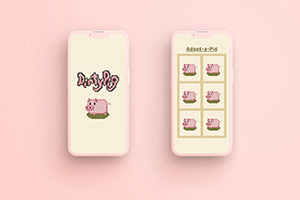
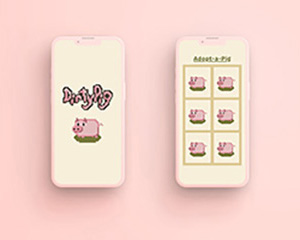
styled projects card section; updated on main projects page

diff --git a/projects.html b/projects.html
@@ -27,29 +27,29 @@
     <main id="main">
         <h2>Projects</h2>
         <p>Here are some of my recent projects. Click on the links below to view more details about each project.</p>
-        <section id="projects-large-grid">
-                <article id="project-1">
+        <section id="projects-carousel">
+                <article class="card">
+                    <img src="images/project-1.jpg" alt="Project 1: Displays an image of an iPhone that has pixel art icons of pigs that represent chores." width="300" height="240">
                     <h3>DirtyPig</h3>
                     <p>Mobile app that assits in daily task management.</p>
-                    <img src="images/project-1.jpg" alt="Project 1: Displays an image of an iPhone that has pixel art icons of pigs that represent chores." width="300" height="200">
                     <a href="project-1.html">View Project</a>
                 </article>
-                <article id="project-2">
+                <article class="card">
+                    <img src="images/project-2.jpg" alt="Project 2: A page of a brand manual for the brand redeisgn of Mount Adanac, a ski hill in Sudbury, Ontario." width="300" height="240">
                     <h3>Mount Adanac</h3>
                     <p>Rebrand of local ski hill in Sudbury, Ontario.</p>
-                    <img src="images/project-2.jpg" alt="Project 2: A page of a brand manual for the brand redeisgn of Mount Adanac, a ski hill in Sudbury, Ontario." width="300" height="240">
                     <a href="project-2.html">View Project</a>
                 </article>
-                <article id="project-3">
+                <article class="card">
+                    <img src="images/project-3.png" alt="Project 3: A screencap from a social awareness campaign about the destigmatization of periods. The image reads 'Doggy Style over Periods?'" width="431" height="240">
                     <h3>let's talk.</h3>
                     <p>Social awareness campaign about the destigmatization of periods.</p>
-                    <img src="images/project-3.png" alt="Project 3: A screencap from a social awareness campaign about the destigmatization of periods. The image reads 'Doggy Style over Periods?'" width="300" height="167">
                     <a href="project-3.html">View Project</a>
                 </article>
-                <article id="project-4">
+                <article class="card">
+                    <img src="images/project-4.jpg" alt="Project 4: An image of a body wash bottle from the brand 'Native.' The bottle is surrounded by cucumbers and mint leaves, and is floating in water. It is a part of an advertisement campaign for Native." width="300" height="240">
                     <h3>Pure Freshness</h3>
                     <p>Advertisement campaign for the brand 'Native.'</p>
-                    <img src="images/project-4.jpg" alt="Project 4: An image of a body wash bottle from the brand 'Native.' The bottle is surrounded by cucumbers and mint leaves, and is floating in water. It is a part of an advertisement campaign for Native." width="300" height="240">
                     <a href="project-4.html">View Project</a>
                 </article>
         </section>

diff --git a/index.html b/index.html
@@ -29,30 +29,30 @@
     <!-- main content of the homepage -->
     <main id="main">
         <!-- projects carousel at top of page -->
+        <h2>Projects</h2>
         <section id="projects-carousel">
-            <h2>Projects</h2>
-                <article id="project-1">
+                <article class="card">
+                    <img src="images/project-1.jpg" alt="Project 1: Displays an image of an iPhone that has pixel art icons of pigs that represent chores." width="300" height="240">
                     <h3>DirtyPig</h3>
                     <p>Mobile app that assits in daily task management.</p>
-                    <img src="images/project-1.jpg" alt="Project 1: Displays an image of an iPhone that has pixel art icons of pigs that represent chores." width="300" height="200">
                     <a href="project-1.html">View Project</a>
                 </article>
-                <article id="project-2">
+                <article class="card">
+                    <img src="images/project-2.jpg" alt="Project 2: A page of a brand manual for the brand redeisgn of Mount Adanac, a ski hill in Sudbury, Ontario." width="300" height="240">
                     <h3>Mount Adanac</h3>
                     <p>Rebrand of local ski hill in Sudbury, Ontario.</p>
-                    <img src="images/project-2.jpg" alt="Project 2: A page of a brand manual for the brand redeisgn of Mount Adanac, a ski hill in Sudbury, Ontario." width="300" height="240">
                     <a href="project-2.html">View Project</a>
                 </article>
-                <article id="project-3">
+                <article class="card">
+                    <img src="images/project-3.png" alt="Project 3: A screencap from a social awareness campaign about the destigmatization of periods. The image reads 'Doggy Style over Periods?'" width="431" height="240">
                     <h3>let's talk.</h3>
                     <p>Social awareness campaign about the destigmatization of periods.</p>
-                    <img src="images/project-3.png" alt="Project 3: A screencap from a social awareness campaign about the destigmatization of periods. The image reads 'Doggy Style over Periods?'" width="300" height="167">
                     <a href="project-3.html">View Project</a>
                 </article>
-                <article id="project-4">
+                <article class="card">
+                    <img src="images/project-4.jpg" alt="Project 4: An image of a body wash bottle from the brand 'Native.' The bottle is surrounded by cucumbers and mint leaves, and is floating in water. It is a part of an advertisement campaign for Native." width="300" height="240">
                     <h3>Pure Freshness</h3>
                     <p>Advertisement campaign for the brand 'Native.'</p>
-                    <img src="images/project-4.jpg" alt="Project 4: An image of a body wash bottle from the brand 'Native.' The bottle is surrounded by cucumbers and mint leaves, and is floating in water. It is a part of an advertisement campaign for Native." width="300" height="240">
                     <a href="project-4.html">View Project</a>
                 </article>
         </section>

diff --git a/css/styles.css b/css/styles.css
@@ -15,6 +15,12 @@
     --hover: oklch(0.8 0.05 70);
 }
 
+/* image styling */
+img {
+    max-width: 100%;
+    height: auto;
+}
+
 /* typography */
 body {
     font-family: 'Inter', Helvetica, Arial, system-ui, sans-serif;
@@ -33,6 +39,7 @@ h1, h2 {
     text-wrap: balance;
     color: var(--primary-color);
     text-decoration: none;
+    padding: 10px;
 }
 
 h3 {
@@ -92,4 +99,69 @@ h5 {
     color: var(--secondary-color);
     text-decoration: wavy underline;
     text-decoration-color: var(--secondary-color);
+}
+
+.skip-link {
+    position: absolute;
+    top: -40px;
+    left: 0;
+    background-color: var(--primary-color);
+    color: var(--page-background);
+    padding: 8px 16px;
+    z-index: 100;
+    transition: top 0.3s ease;
+}
+
+.skip-link:focus {
+    top: 10px;
+}
+
+/* card display */
+#projects-carousel {
+    display: flex;
+    flex-wrap: wrap;
+    gap: 20px;
+    justify-content: center;
+    padding: 10px;
+}
+
+.card {
+    flex: 1;
+    flex-basis: 300px;
+    border: 2px solid var(--dark);
+    border-radius: 5px;
+    text-align: center;
+}
+
+.card img {
+    width: 100%;
+    height: auto;
+    border-radius: 5px 5px 0 0;
+}
+
+.card h3 {
+    margin: 10px;
+}
+
+.card p {
+    margin: 10px;
+    text-align: justify center;
+}
+
+.card a {
+    display: inline-block;
+    margin: 10px;
+    padding: 8px 16px;
+    background-color: var(--primary-color);
+    color: var(--page-background);
+    text-decoration: none;
+    border-radius: 5px;
+}
+
+.card a:hover, .card a:focus {
+    background-color: var(--hover);
+    color: var(--text);
+    text-decoration: wavy underline;
+    text-decoration-color: var(--text);
+    border: 1px solid var(--text);
 }
